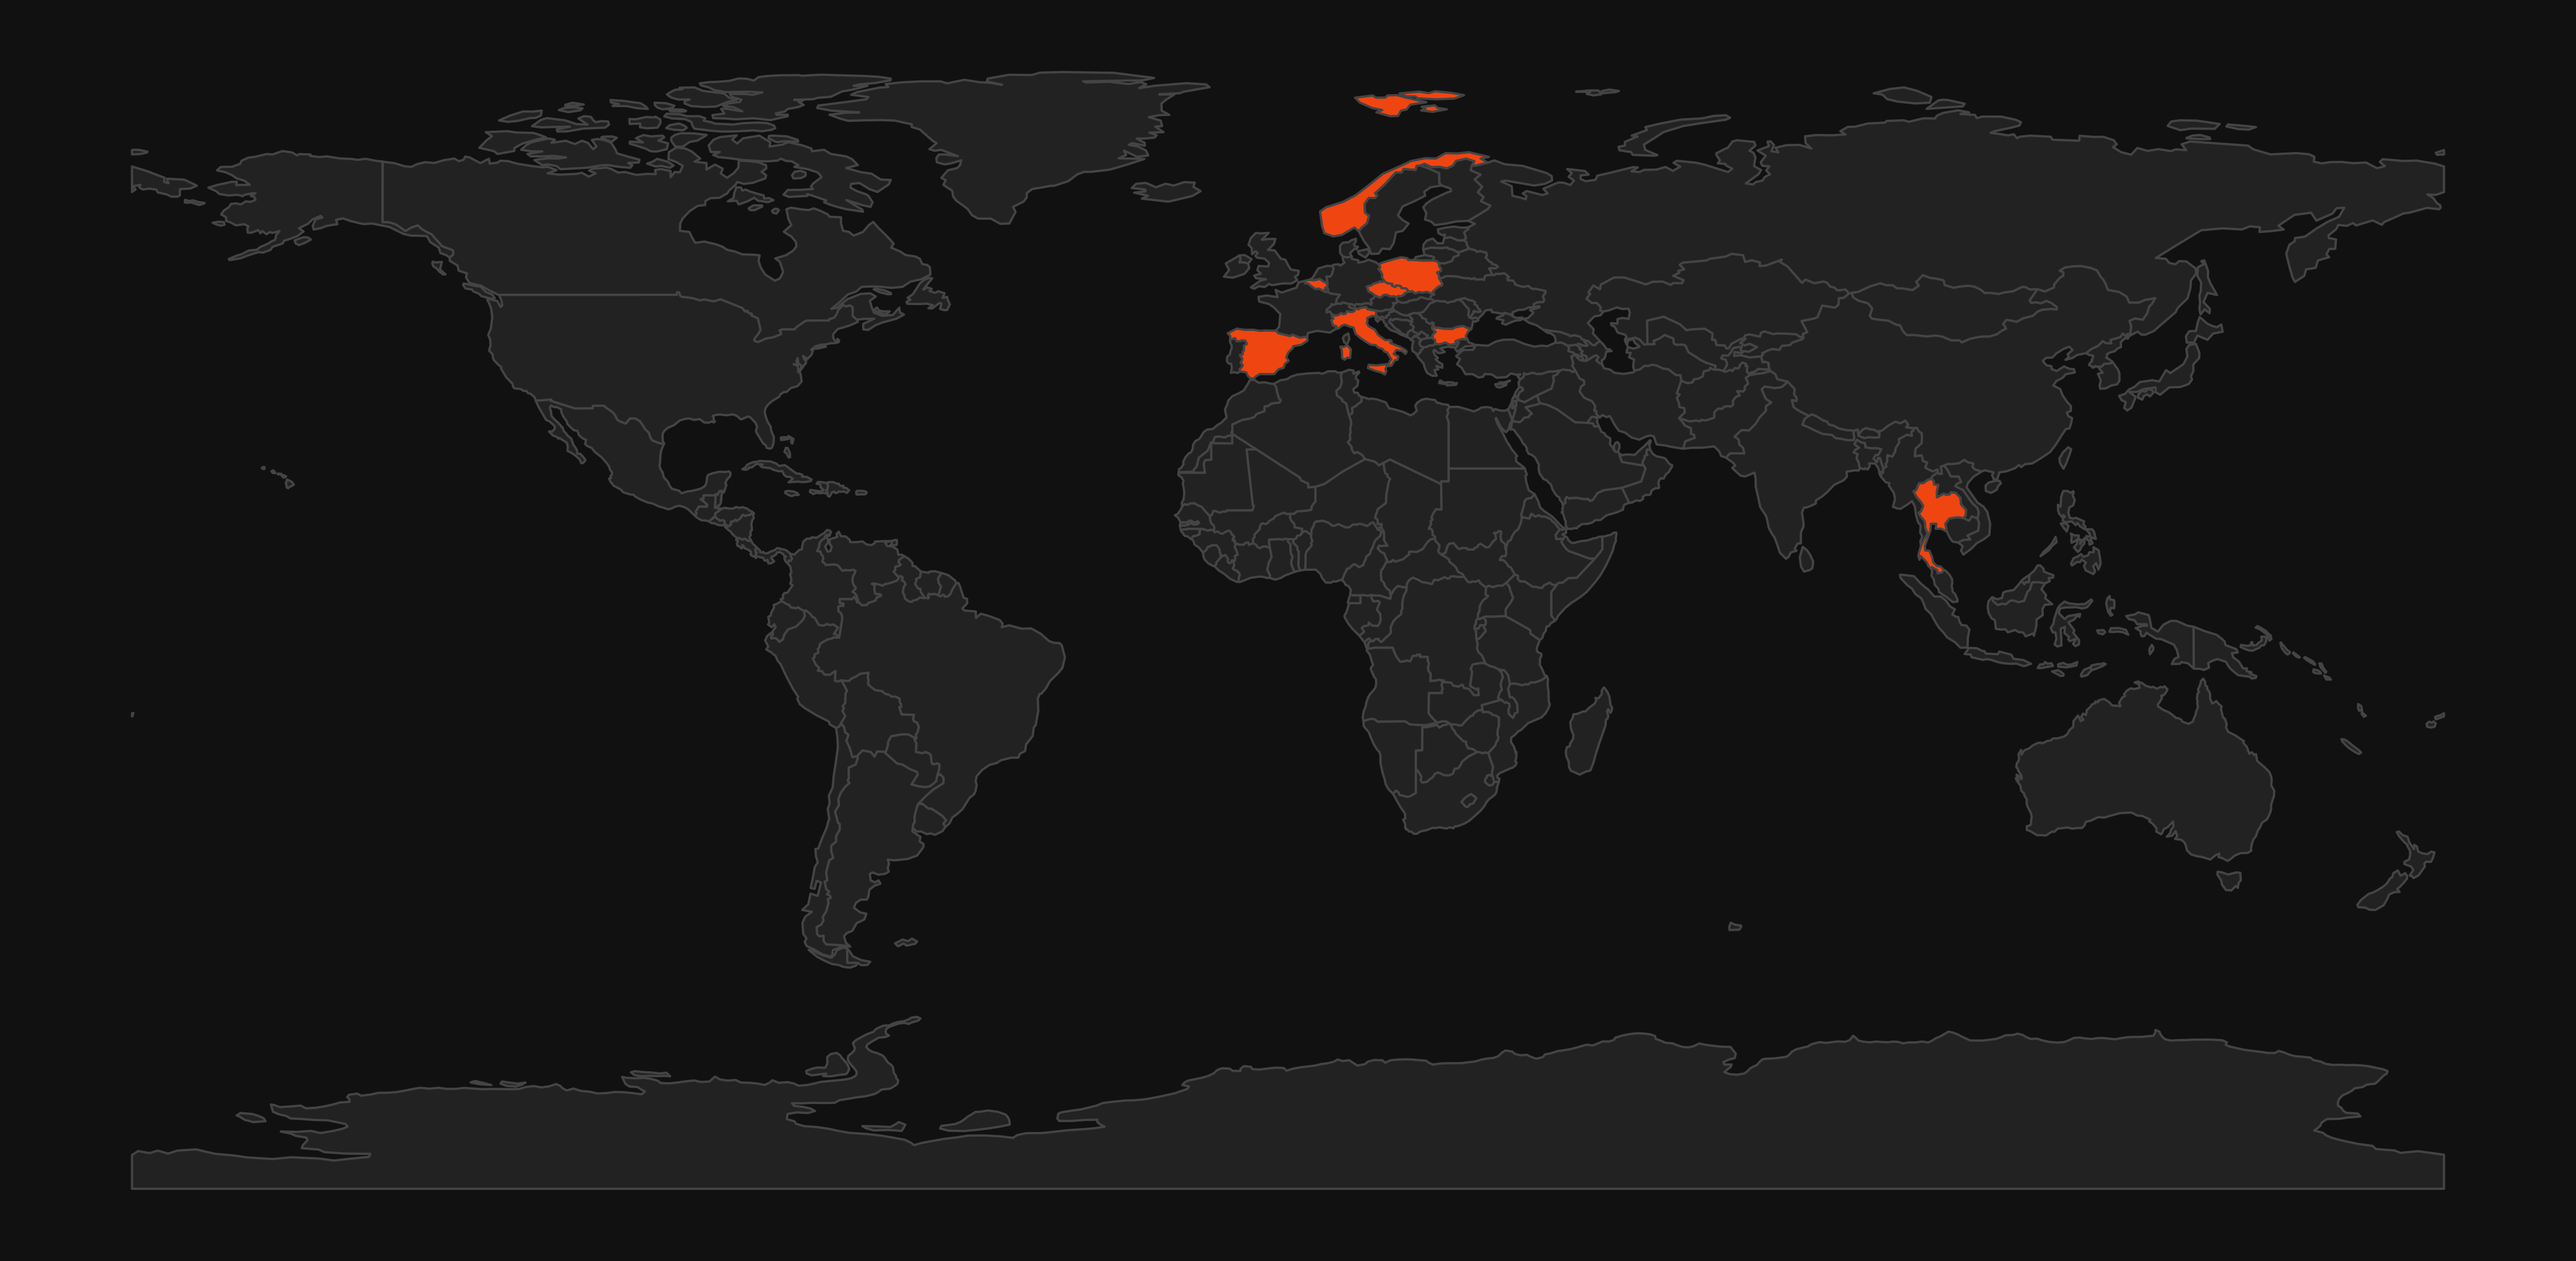
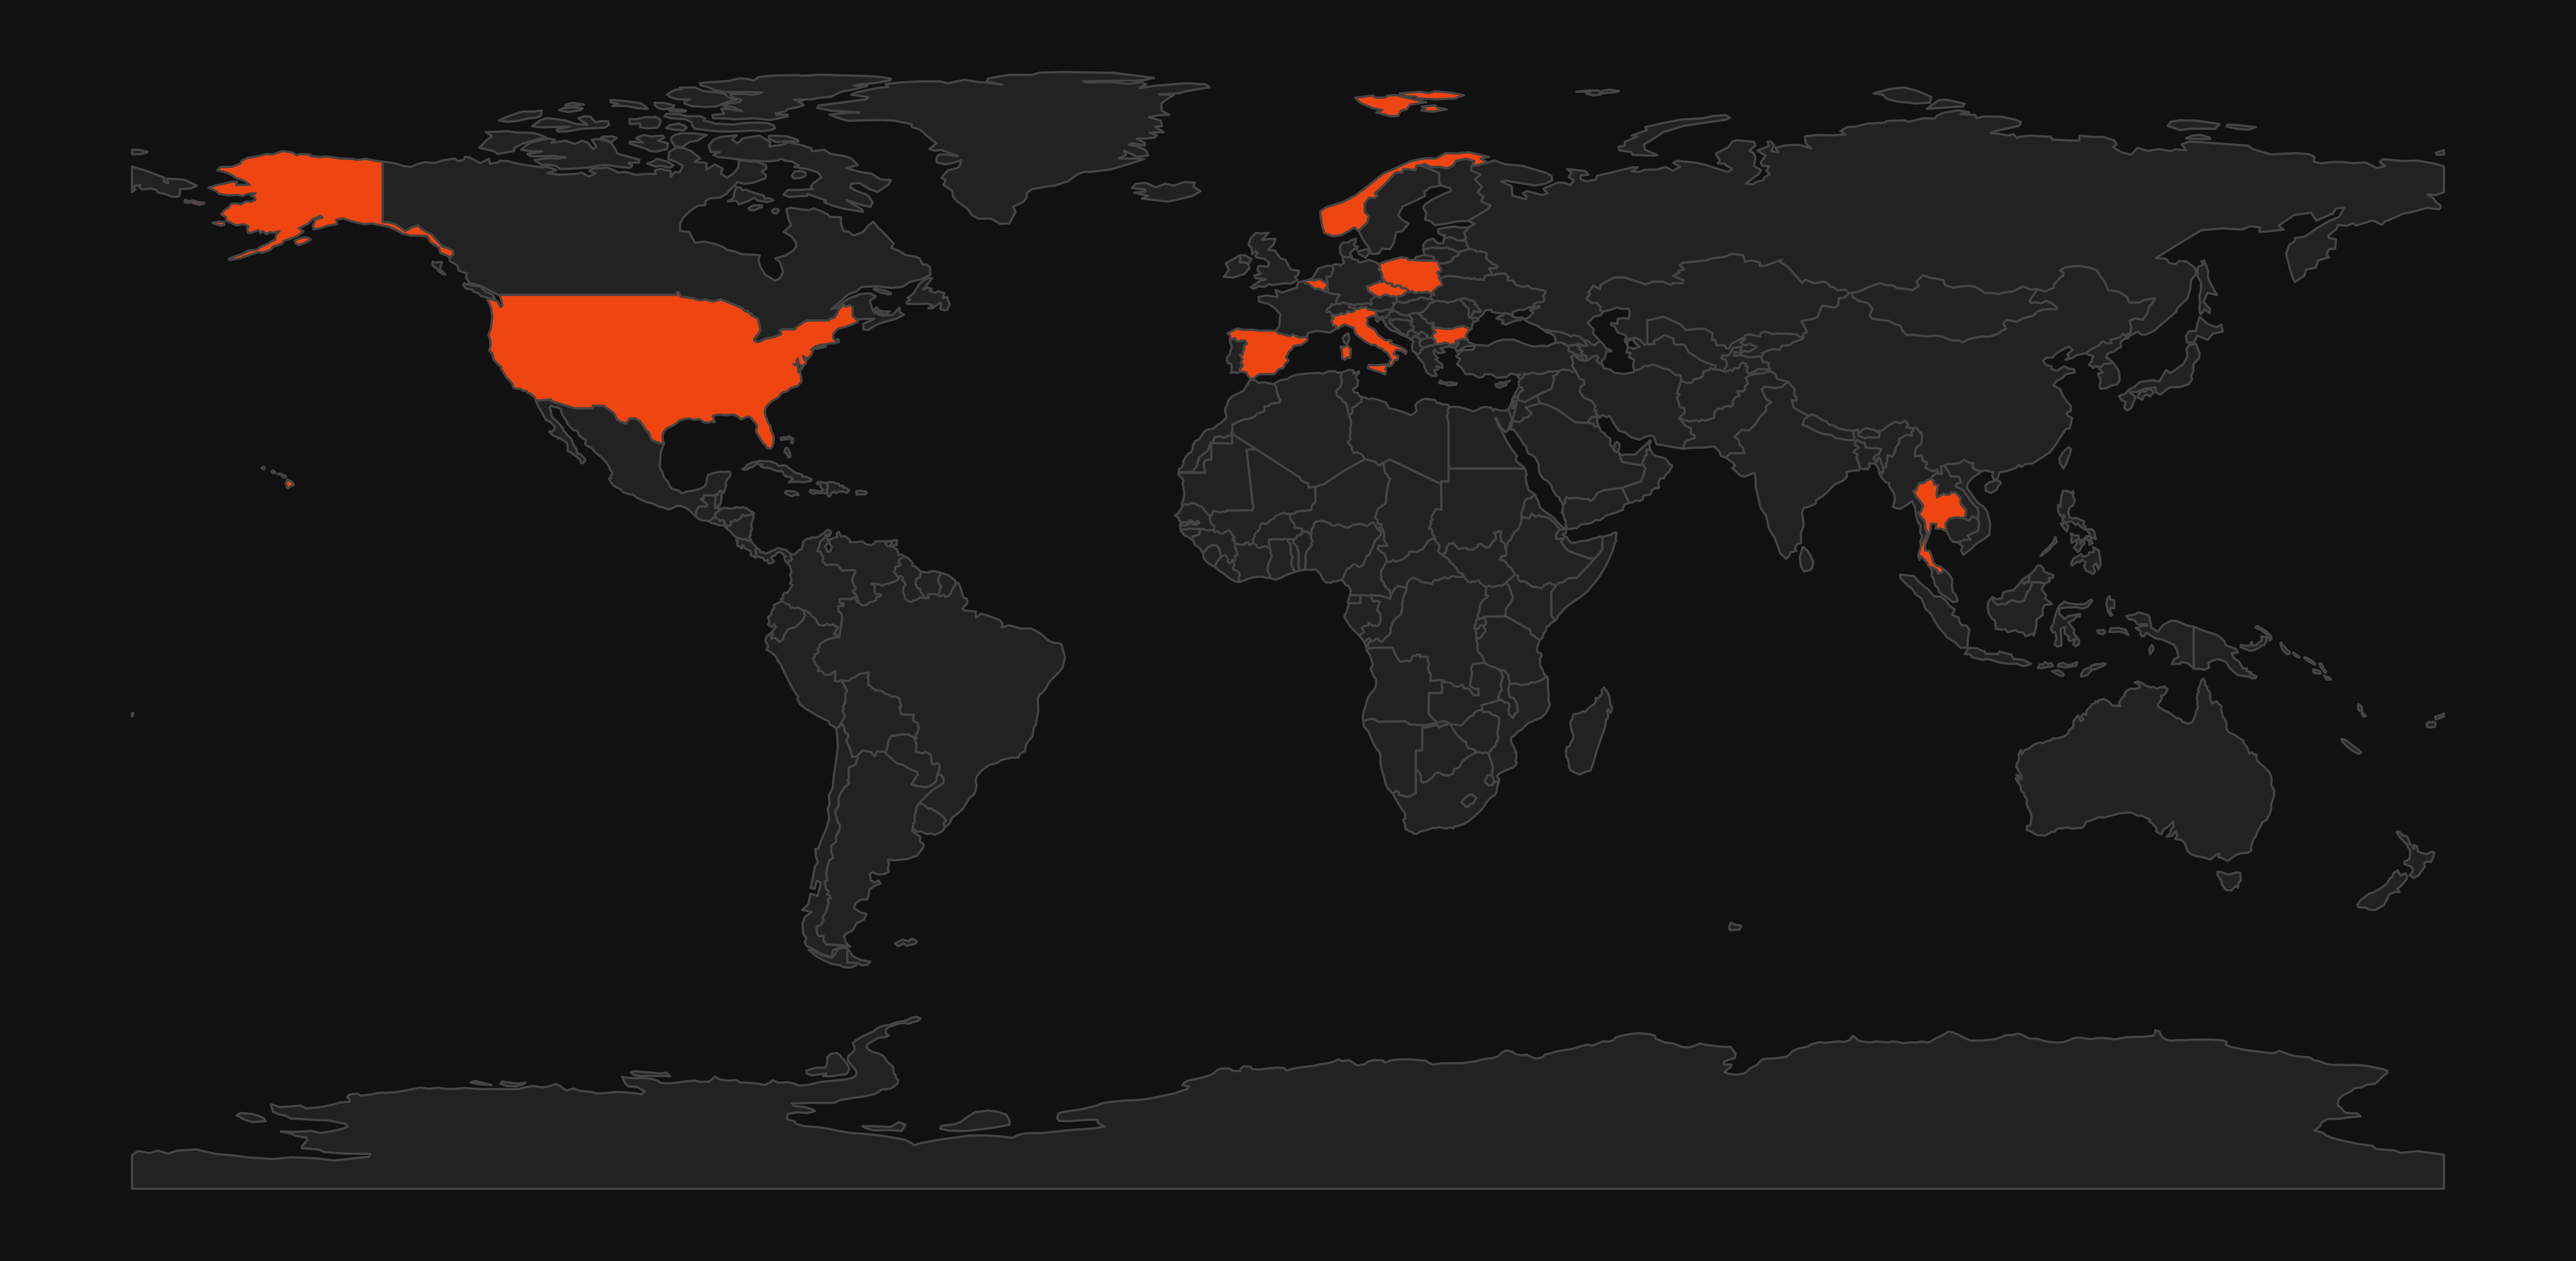
Ambassadors Update

Changed region(s): [[0.1873, 0.2186, 0.3433, 0.3435], [0.0624, 0.1249, 0.1561, 0.1873]]

diff --git a/Ambassadors/People/will_g.md b/Ambassadors/People/will_g.md
@@ -1,0 +1,94 @@
+# Will G. – NTHW Ambassador
+
+<p align="center">
+  <img src="https://raw.githubusercontent.com/notthehiddenwiki/NTHW/nthw/.github/ambassadors/Will_G.png">
+</p>
+
+## 🌍 Basic Information & Contact
+**Country:** United States  
+**Email:** [illwill@illmob.org]  
+**GitLab:** [https://gitlab.com/illwill](https://gitlab.com/illwill)  
+**GitHub:** [https://github.com/xillwillx](https://github.com/xillwillx) *(abandoned)*  
+**LinkedIn:** [https://linkedin.com/in/illwill](https://linkedin.com/in/illwill)  
+**Twitter/X:** [https://x.com/xillwillx](https://x.com/xillwillx)  
+**Discord:** [illwill.]  
+
+---
+
+## 👤 Biography
+With over **25 years in cybersecurity**, I’ve worked across offensive security, red teaming, and penetration testing, specializing in adversarial simulation and threat-driven assessments.  
+
+I’ve served as:
+- 🎤 **Panelist – DEF CON 23 (2015)**  
+- 🧠 **Speaker & Co-Founder – BSidesCT (2011–Present)**  
+- 🎙 **Speaker – HushCon East (2018)**  
+- 🧩 **Speaker – DEF CON ReconVillage (2018)**  
+- 🔧 **Ex-Contributor – Metasploit Project**  
+
+Professionally, I operate as a **Senior Adversarial Engineer**, focused on full-spectrum red team operations, social engineering, OSINT-driven engagements, and threat intelligence analysis.  
+I’m deeply involved in the community, Ex Co-Founder NESIT Hackerspace, Ex Co-Leader CT2600,  Ex-Leader the **OWASP Connecticut Chapter** and maintaining over a decade of involvement organizing **Security BSidesCT** conferences.  
+
+When I’m not testing security boundaries, I’m building or refining red-team tooling, contributing to open-source, and supporting the next generation of ethical hackers through mentorship and education.
+
+---
+
+## 🛠 Technical Competencies and Interests
+- Red Team Operations / Adversarial Simulation  
+- Network & Application Penetration Testing  
+- OSINT & Threat Intelligence  
+- Social Engineering / Physical Intrusion Testing  
+- Infrastructure & Active Directory Exploitation  
+- Tool Development & Automation  
+
+**Languages / Tools:** Bash, PowerShell, Python, C/C++, MASM, Nmap, Masscan, Metasploit, Cobalt Strike, NetExec, ADCS exploitation chains.
+
+---
+
+## 🧾 Certifications
+- **OSCP – Offensive Security Certified Professional** 
+- **CREST Registered Pen Tester (CRT)** 
+- **CREST Practitioner Security Analyst (CPSA)** 
+
+---
+
+## 🚀 Planned Initiatives as NTHW Ambassador
+- Help **technical workshops** and **hands-on labs** focused on offensive tradecraft, OSINT, and ADCS exploitation.  
+- Contribute to NTHW content on **pentesting methodology**, **tool development**, and **real-world engagement workflow**.  
+- Mentor up-and-coming professionals entering red-team and CTF fields.  
+
+---
+
+## 🤝 Available For
+[x] Community Support  
+[x] Mentoring & Technical Guidance  
+[x] Writing Tutorials & Content Creation  
+[x] Presentations & Webinars  
+[x] Event Organization (BSidesCT)  
+[x] Tool Testing & Development  
+
+---
+
+## 📚 Language Proficiency
+- English – Native  
+
+---
+
+## 🎨 Additional Skills
+- Public Speaking  
+- Event Organization & Moderation  
+- Open-Source Development  
+- Community Building & Mentorship  
+- Incident Simulation & Red-Team Planning  
+
+---
+
+## 💬 How I Can Help the Community
+I’ve spent most of my career helping others understand how real attackers think. As an NTHW Ambassador, I plan to keep doing that — by contributing tooling, training materials, and real-world attack methodology to strengthen the next generation of cybersecurity professionals.  
+
+> “I dont give out checkboxes / Everyone has a plan until they get punched in the mouth.”
+
+---
+
+**Ambassador status:** ✅ Active  
+*This profile was created: [24.10.2025]*  
+*Last updated: [24.10.2025]*

diff --git a/Ambassadors/People/marcin_czerniawski.md b/Ambassadors/People/marcin_czerniawski.md
@@ -9,7 +9,7 @@
   - **Email:** [marcin.czerniawski2000@gmail.com](mailto:marcin.czerniwski2000@gmail.com)
   - **LinkedIn:** [https://www.linkedin.com/in/marcin-czerniawski](https://www.linkedin.com/in/marcin-czerniawski)  
   - **GitHub:** [https://github.com/desc3nd](https://github.com/desc3nd)  
-  - **Discord:** marcin.czer 
+  - **Discord:** [marcin.czer] 
 
 ## 👤 Biography
 I am an experienced Application Security Engineer with a strong foundation in .NET application development and over 5 years of expertise in programming and cybersecurity. Throughout my career, I have evolved from a .NET Developer to an application security specialist, combining deep technical knowledge with a practical approach to security. I worked as a .NET developer because I couldn’t decide whether I enjoyed programming or cybersecurity more. After completing my master degree in cybersecurity, I found a role that allows me to do both - most of the time I work as a cybersecurity specialist, but occasionally I also develop solutions, particularly in the area of user identity management.

diff --git a/Ambassadors/People/lukas_bauer.md b/Ambassadors/People/lukas_bauer.md
@@ -10,7 +10,7 @@
   - **LinkedIn:** [https://linkedin.com/in/lukas-bauer-cz/](https://www.linkedin.com/in/lukas-bauer-cz/)  
   - **GitHub:** [https://github.com/lukasLUKCZ](https://github.com/lukasLUKCZ)  
   - **Twitter/X:** [@lukasLUKCZ](https://x.com/lukasLUKCZ)
-  - **Discord:** lukaslukcz
+  - **Discord:** [lukaslukcz]
 
 ## 👤 Biography
 Hey, I'm Lukas online I go by lukasLUKCZ. I'm a cyber security student focused on blue team and Digital Forensics & Incident Response (DFIR). You might know me from platforms like CyberDefenders or HackTheBox, where I've earned 15+ first bloods in Sherlocks. I focus on DFIR, especially studying and experimenting with lesser-known artifacts. For me, forensics starts with understanding system behavior and feature design, then using that knowledge to build solid evidence. Because DFIR is demanding and resource-intensive, I decided to become an NTHW ambassador to help grow a community where you can learn from seasoned professionals and share practical, hands-on knowledge with others.

diff --git a/Ambassadors/README.md b/Ambassadors/README.md
@@ -83,6 +83,7 @@ Below you will find the people who are **ambassadors** for **Not The Hidden Wiki
 * [Warawut Manosong](https://github.com/notthehiddenwiki/NTHW/blob/nthw/Ambassadors/People/warawut_manosong.md) [Thailand]
 * [Magda Harasiewicz](https://github.com/notthehiddenwiki/NTHW/blob/nthw/Ambassadors/People/magda_harasiewicz.md) [Spain]
 * [Ratthapong Sommanus](https://github.com/notthehiddenwiki/NTHW/blob/nthw/Ambassadors/People/ratthapong_sommanus.md) [Thailand]
+* [Will G.](https://github.com/notthehiddenwiki/NTHW/blob/nthw/Ambassadors/People/will_g.md) [United States]
 
 
 Thank you for your interest in the NTHW Ambassadors Program! We look forward to collaborating with you to strengthen and grow our cybersecurity community.

diff --git a/Ambassadors/People/riccardo_m.md b/Ambassadors/People/riccardo_m.md
@@ -9,7 +9,7 @@
   - **Email:** [ottersec@duck.com](mailto:ottersec@duck.com) 
   - **LinkedIn:** [https://www.linkedin.com/in/otterpwn/](https://www.linkedin.com/in/otterpwn/)  
   - **GitHub:** [https://github.com/otterpwn](https://github.com/otterpwn)  
-  - **Discord:** ottersec
+  - **Discord:** [ottersec]
 
 ## 👤 Biography
 I am a self-taught cybersecurity enthusiast and professional that loves otters ʕ •ᴥ•ʔ
